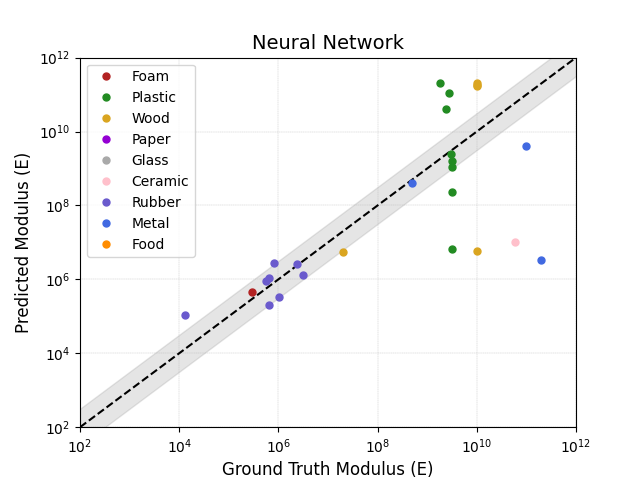
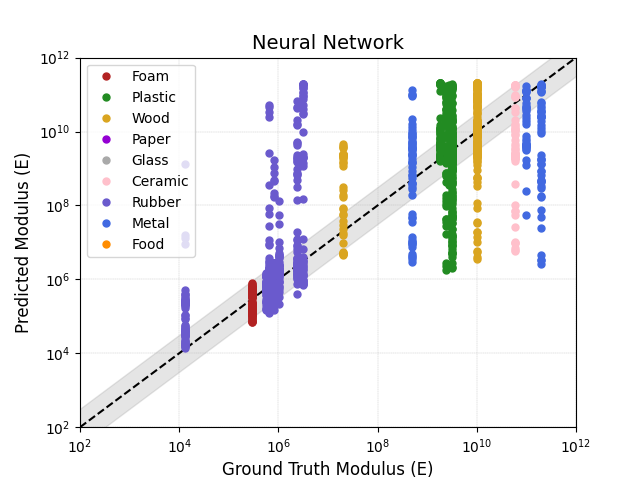
There was an error in the image creation code

diff --git a/train.py b/train.py
@@ -10,6 +10,9 @@ import torchvision
 import torch.nn as nn
 import torch.nn.functional as F
 import wandb
+
+import matplotlib as mpl
+mpl.rcParams.update(mpl.rcParamsDefault)
 import matplotlib.pyplot as plt
 
 # from wedge_video import WARPED_CROPPED_IMG_SIZE
@@ -578,7 +581,7 @@ class ModulusModel():
                     val_pct_with_100_factor_err += 1
 
                 if track_predictions:
-                    predictions[object_names[i]] = self.log_unnormalize(outputs.cpu()).detach().numpy()[i]
+                    predictions[object_names[i]].append(self.log_unnormalize(outputs.cpu()).detach().numpy()[i][0])
 
         # Return loss and accuracy
         val_loss /= batch_count
@@ -718,8 +721,8 @@ class ModulusModel():
             train_object_performance = json.load(file)
         with open(f'{folder_path}/val_object_performance.json', 'r') as file:
             val_object_performance = json.load(file)
-        self.objects_train = train_object_performance.keys()
-        self.objects_val = val_object_performance.keys()
+        self.objects_train = list(train_object_performance.keys())
+        self.objects_val = list(val_object_performance.keys())
 
         # Create data loaders based on original training distinctions
         self._create_data_loaders()
@@ -748,6 +751,7 @@ class ModulusModel():
         predictions = self._val_epoch(track_predictions=True)
 
         # Turn predictions into plotting data
+        count = 0
         for obj in predictions.keys():
             if len(predictions[obj]) == 0: continue
             assert obj in self.object_to_material.keys()
@@ -757,6 +761,7 @@ class ModulusModel():
                     assert not math.isnan(E)
                     material_prediction_data[mat].append(E)
                     material_label_data[mat].append(self.object_to_modulus[obj])
+                    count += 1
 
         # Create plot
         plt.rcParams['text.usetex'] = True
@@ -814,7 +819,7 @@ if __name__ == "__main__":
         'batch_size'        : 32,
         'img_feature_size'  : 32,
         'fwe_feature_size'  : 24,
-        'val_pct'           : 0.2,
+        'val_pct'           : 0.175,
         'dropout_pct'       : 0.3,
         'learning_rate'     : 1e-4,
         'gamma'             : None,
@@ -830,7 +835,7 @@ if __name__ == "__main__":
 
         # Train the model over some data
         train_modulus = ModulusModel(config, device=device)
-        # train_modulus.train()
+        train_modulus.train()
 
-        train_modulus.load_model('./model/CombinedFW_DecoderTiny_Img32__t=0')
-        train_modulus.make_performance_plot()
+        # train_modulus.load_model('./model/CombinedFW_DecoderTiny_Img32__t=0')
+        # train_modulus.make_performance_plot()
